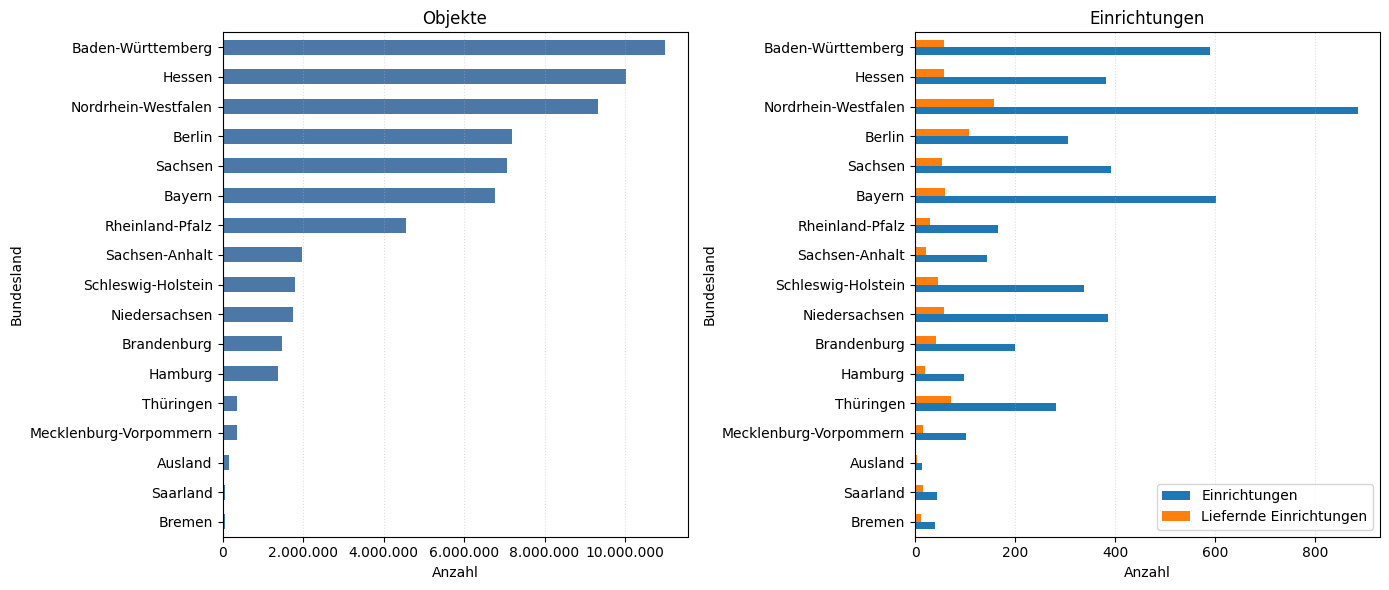
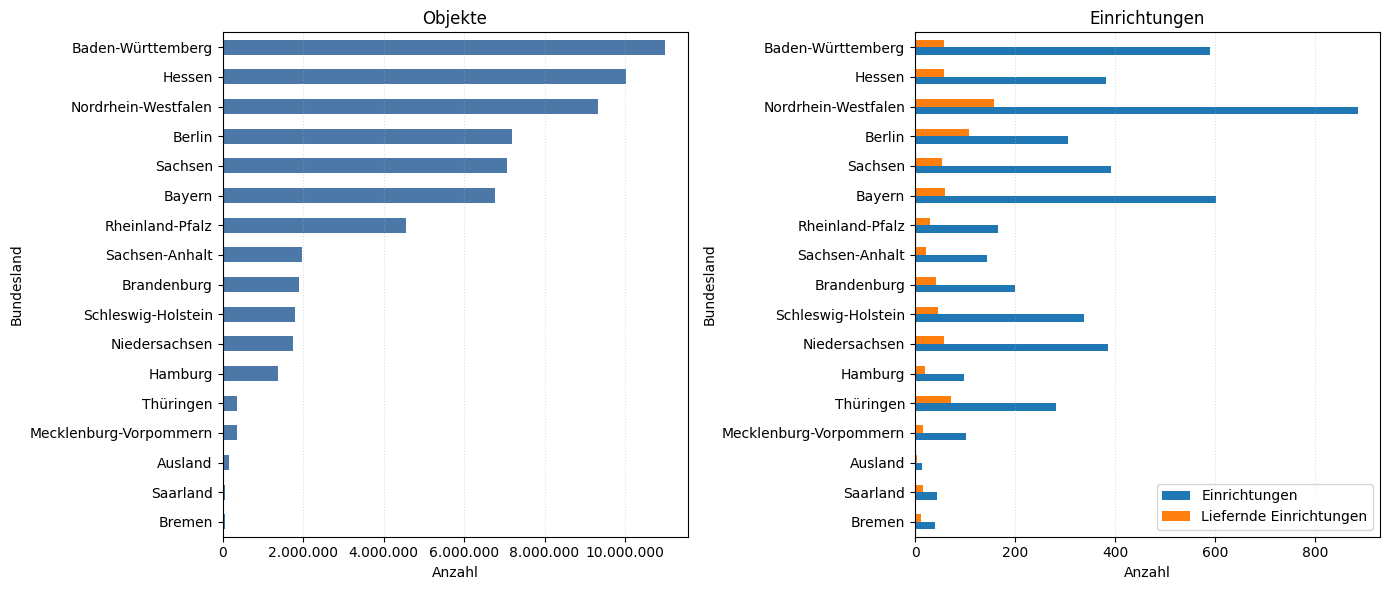
Built site for gh-pages

diff --git a/inspection-invalid_multiple_facets_values.html b/inspection-invalid_multiple_facets_values.html
@@ -183,7 +183,7 @@ pre > code.sourceCode > span > a:first-child::before { text-decoration: underlin
 
 
 <p>Einige Felder können je <code>dataprovider_id</code> mehrere unterschiedliche Werte haben (z.B. durch Datenmischung). Dafür wird ein Solr JSON-Facet genutzt und anschließend client-seitig auf <code>nvals &gt; 1</code> sowie 32-stellige IDs gefiltert. Hinweis: <code>unique(...)</code> ist in Solr oft ein schneller, näherungsweiser Distinct-Count (für das Finden von Kandidaten meist ausreichend).</p>
-<div id="9b396cd4" class="cell" data-quarto-private-1="{&quot;key&quot;:&quot;execution&quot;,&quot;value&quot;:{&quot;iopub.execute_input&quot;:&quot;2026-04-10T05:29:57.614917Z&quot;,&quot;iopub.status.busy&quot;:&quot;2026-04-10T05:29:57.614689Z&quot;,&quot;iopub.status.idle&quot;:&quot;2026-04-10T05:30:00.652139Z&quot;,&quot;shell.execute_reply&quot;:&quot;2026-04-10T05:30:00.651291Z&quot;}}" data-execution_count="1">
+<div id="9b396cd4" class="cell" data-quarto-private-1="{&quot;key&quot;:&quot;execution&quot;,&quot;value&quot;:{&quot;iopub.execute_input&quot;:&quot;2026-04-11T04:59:23.181728Z&quot;,&quot;iopub.status.busy&quot;:&quot;2026-04-11T04:59:23.181517Z&quot;,&quot;iopub.status.idle&quot;:&quot;2026-04-11T04:59:25.893515Z&quot;,&quot;shell.execute_reply&quot;:&quot;2026-04-11T04:59:25.891887Z&quot;}}" data-execution_count="1">
 <details class="code-fold">
 <summary>Quelltext anzeigen</summary>
 <div class="code-copy-outer-scaffold"><div class="sourceCode cell-code" id="cb1"><pre class="sourceCode python code-with-copy"><code class="sourceCode python"><span id="cb1-1"><a href="#cb1-1" aria-hidden="true" tabindex="-1"></a><span class="im">import</span> requests</span>
@@ -219,7 +219,7 @@ pre > code.sourceCode > span > a:first-child::before { text-decoration: underlin
 <span id="cb1-31"><a href="#cb1-31" aria-hidden="true" tabindex="-1"></a><span class="co"># df_org</span></span></code></pre></div><button title="In die Zwischenablage kopieren" class="code-copy-button"><i class="bi"></i></button></div>
 </details>
 </div>
-<div id="dfcc0661" class="cell" data-quarto-private-1="{&quot;key&quot;:&quot;execution&quot;,&quot;value&quot;:{&quot;iopub.execute_input&quot;:&quot;2026-04-10T05:30:00.654292Z&quot;,&quot;iopub.status.busy&quot;:&quot;2026-04-10T05:30:00.654030Z&quot;,&quot;iopub.status.idle&quot;:&quot;2026-04-10T05:30:31.533731Z&quot;,&quot;shell.execute_reply&quot;:&quot;2026-04-10T05:30:31.532917Z&quot;}}" data-execution_count="2">
+<div id="dfcc0661" class="cell" data-quarto-private-1="{&quot;key&quot;:&quot;execution&quot;,&quot;value&quot;:{&quot;iopub.execute_input&quot;:&quot;2026-04-11T04:59:25.895834Z&quot;,&quot;iopub.status.busy&quot;:&quot;2026-04-11T04:59:25.895535Z&quot;,&quot;iopub.status.idle&quot;:&quot;2026-04-11T04:59:43.270636Z&quot;,&quot;shell.execute_reply&quot;:&quot;2026-04-11T04:59:43.269644Z&quot;}}" data-execution_count="2">
 <details class="code-fold">
 <summary>Quelltext anzeigen</summary>
 <div class="code-copy-outer-scaffold"><div class="sourceCode cell-code" id="cb2"><pre class="sourceCode python code-with-copy"><code class="sourceCode python"><span id="cb2-1"><a href="#cb2-1" aria-hidden="true" tabindex="-1"></a>url <span class="op">=</span> <span class="st">"https://api.deutsche-digitale-bibliothek.de/2/search/index/search/select"</span></span>
@@ -307,7 +307,7 @@ pre > code.sourceCode > span > a:first-child::before { text-decoration: underlin
 <section id="variante-mehrfachwerte-in-sector_fct" class="level2">
 <h2 class="anchored" data-anchor-id="variante-mehrfachwerte-in-sector_fct">Variante: Mehrfachwerte in <code>sector_fct</code></h2>
 <p>Gleiche Logik wie oben, aber für <code>sector_fct</code> (Sektor-Klassifikation). Ergebnis: <code>df_auffaellig</code>, angereichert mit <code>label</code> aus <code>df_join</code>.</p>
-<div id="85032a1c" class="cell" data-quarto-private-1="{&quot;key&quot;:&quot;execution&quot;,&quot;value&quot;:{&quot;iopub.execute_input&quot;:&quot;2026-04-10T05:30:31.535722Z&quot;,&quot;iopub.status.busy&quot;:&quot;2026-04-10T05:30:31.535536Z&quot;,&quot;iopub.status.idle&quot;:&quot;2026-04-10T05:31:00.677484Z&quot;,&quot;shell.execute_reply&quot;:&quot;2026-04-10T05:31:00.676541Z&quot;}}" data-execution_count="3">
+<div id="85032a1c" class="cell" data-quarto-private-1="{&quot;key&quot;:&quot;execution&quot;,&quot;value&quot;:{&quot;iopub.execute_input&quot;:&quot;2026-04-11T04:59:43.272653Z&quot;,&quot;iopub.status.busy&quot;:&quot;2026-04-11T04:59:43.272480Z&quot;,&quot;iopub.status.idle&quot;:&quot;2026-04-11T04:59:58.621872Z&quot;,&quot;shell.execute_reply&quot;:&quot;2026-04-11T04:59:58.620895Z&quot;}}" data-execution_count="3">
 <details class="code-fold">
 <summary>Quelltext anzeigen</summary>
 <div class="code-copy-outer-scaffold"><div class="sourceCode cell-code" id="cb3"><pre class="sourceCode python code-with-copy"><code class="sourceCode python"><span id="cb3-1"><a href="#cb3-1" aria-hidden="true" tabindex="-1"></a>url <span class="op">=</span> <span class="st">"https://api.deutsche-digitale-bibliothek.de/2/search/index/search/select"</span></span>

diff --git a/statistic-federal_state.html b/statistic-federal_state.html
@@ -177,7 +177,7 @@ pre > code.sourceCode > span > a:first-child::before { text-decoration: underlin
 
 
 <p>Dieses Notebook ruft Statistiken aus der API der Deutschen Digitalen Bibliothek ab und bereitet sie für eine Auswertung nach Bundesland auf.</p>
-<div id="2e7adfe2" class="cell" data-quarto-private-1="{&quot;key&quot;:&quot;execution&quot;,&quot;value&quot;:{&quot;iopub.execute_input&quot;:&quot;2026-04-10T05:31:04.401493Z&quot;,&quot;iopub.status.busy&quot;:&quot;2026-04-10T05:31:04.401292Z&quot;,&quot;iopub.status.idle&quot;:&quot;2026-04-10T05:31:10.343849Z&quot;,&quot;shell.execute_reply&quot;:&quot;2026-04-10T05:31:10.343043Z&quot;}}" data-execution_count="1">
+<div id="2e7adfe2" class="cell" data-quarto-private-1="{&quot;key&quot;:&quot;execution&quot;,&quot;value&quot;:{&quot;iopub.execute_input&quot;:&quot;2026-04-11T05:00:02.422668Z&quot;,&quot;iopub.status.busy&quot;:&quot;2026-04-11T05:00:02.422482Z&quot;,&quot;iopub.status.idle&quot;:&quot;2026-04-11T05:00:08.574960Z&quot;,&quot;shell.execute_reply&quot;:&quot;2026-04-11T05:00:08.573986Z&quot;}}" data-execution_count="1">
 <details class="code-fold">
 <summary>Quelltext anzeigen</summary>
 <div class="code-copy-outer-scaffold"><div class="sourceCode cell-code" id="cb1"><pre class="sourceCode python code-with-copy"><code class="sourceCode python"><span id="cb1-1"><a href="#cb1-1" aria-hidden="true" tabindex="-1"></a><span class="im">import</span> requests</span>
@@ -324,7 +324,7 @@ pre > code.sourceCode > span > a:first-child::before { text-decoration: underlin
 <span id="cb1-142"><a href="#cb1-142" aria-hidden="true" tabindex="-1"></a>agg</span></code></pre></div><button title="In die Zwischenablage kopieren" class="code-copy-button"><i class="bi"></i></button></div>
 </details>
 <div class="cell-output cell-output-display cell-output-markdown">
-<p><strong>Letzte Aktualisierung:</strong> 10.04.2026 um 05:31:10 Uhr</p>
+<p><strong>Letzte Aktualisierung:</strong> 11.04.2026 um 05:00:08 Uhr</p>
 </div>
 <div class="cell-output cell-output-display" data-execution_count="1">
 <div>
@@ -395,22 +395,22 @@ pre > code.sourceCode > span > a:first-child::before { text-decoration: underlin
 <td>1973574</td>
 </tr>
 <tr class="odd">
+<th data-quarto-table-cell-role="th">Brandenburg</th>
+<td>199</td>
+<td>41</td>
+<td>1905490</td>
+</tr>
+<tr class="even">
 <th data-quarto-table-cell-role="th">Schleswig-Holstein</th>
 <td>337</td>
 <td>45</td>
 <td>1795348</td>
 </tr>
-<tr class="even">
+<tr class="odd">
 <th data-quarto-table-cell-role="th">Niedersachsen</th>
 <td>386</td>
 <td>58</td>
 <td>1747270</td>
-</tr>
-<tr class="odd">
-<th data-quarto-table-cell-role="th">Brandenburg</th>
-<td>199</td>
-<td>41</td>
-<td>1468534</td>
 </tr>
 <tr class="even">
 <th data-quarto-table-cell-role="th">Hamburg</th>
@@ -454,7 +454,7 @@ pre > code.sourceCode > span > a:first-child::before { text-decoration: underlin
 </div>
 </div>
 </div>
-<div id="da8d3c73" class="cell" data-quarto-private-1="{&quot;key&quot;:&quot;execution&quot;,&quot;value&quot;:{&quot;iopub.execute_input&quot;:&quot;2026-04-10T05:31:10.345799Z&quot;,&quot;iopub.status.busy&quot;:&quot;2026-04-10T05:31:10.345597Z&quot;,&quot;iopub.status.idle&quot;:&quot;2026-04-10T05:31:12.089126Z&quot;,&quot;shell.execute_reply&quot;:&quot;2026-04-10T05:31:12.088091Z&quot;}}" data-execution_count="2">
+<div id="da8d3c73" class="cell" data-quarto-private-1="{&quot;key&quot;:&quot;execution&quot;,&quot;value&quot;:{&quot;iopub.execute_input&quot;:&quot;2026-04-11T05:00:08.576845Z&quot;,&quot;iopub.status.busy&quot;:&quot;2026-04-11T05:00:08.576618Z&quot;,&quot;iopub.status.idle&quot;:&quot;2026-04-11T05:00:09.696821Z&quot;,&quot;shell.execute_reply&quot;:&quot;2026-04-11T05:00:09.695991Z&quot;}}" data-execution_count="2">
 <details class="code-fold">
 <summary>Quelltext anzeigen</summary>
 <div class="code-copy-outer-scaffold"><div class="sourceCode cell-code" id="cb2"><pre class="sourceCode python code-with-copy"><code class="sourceCode python"><span id="cb2-1"><a href="#cb2-1" aria-hidden="true" tabindex="-1"></a><span class="im">import</span> matplotlib.pyplot <span class="im">as</span> plt</span>
